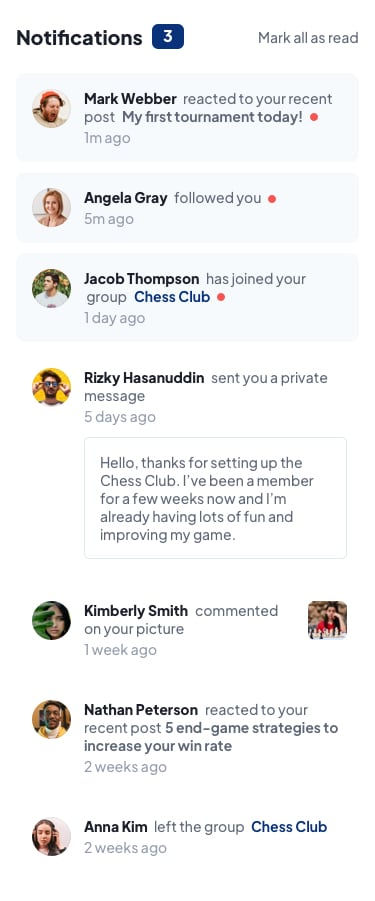
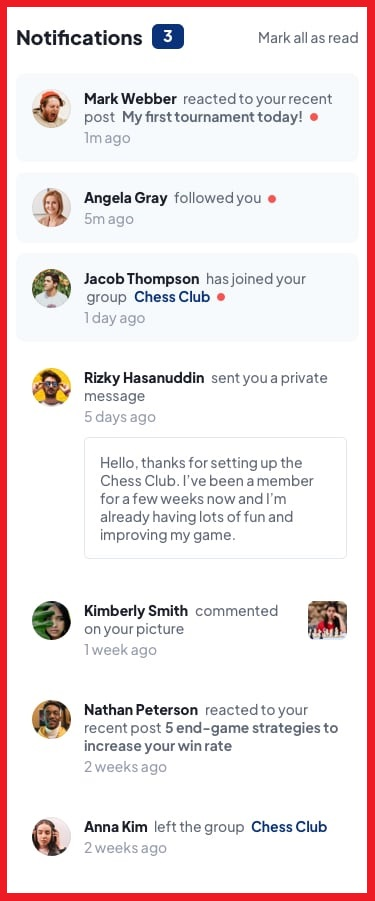
Ch25: finalizing mobile layout

Changed region(s): [[0.0, 0.0, 1.0, 1.0]]

diff --git a/25-notifications-page-main/index.html b/25-notifications-page-main/index.html
@@ -29,14 +29,15 @@
         <div class="details">
           <div class="content">
             <span class="name">Mark Webber</span>
-            <span class="action">reacted to your recent post My first tournament today!</span>
-            <span class="subject">Great job, I'm sure you had a lot of fun.</span>
+            <span class="action">reacted to your recent post </span>
+            <span class="subject">My first tournament today!</span>
+            <span class="red-dot">•</span>
           </div>
           <div class="timestamp">1m ago</div>
         </div>
       </div>
 
-      <div class="notification d-flex-center">
+      <div class="notification d-flex">
         <img src="./assets/images/avatar-angela-gray.webp" alt="Avatar of Angela Gray">
         <div class="details">
           <div class="content">
@@ -47,7 +48,7 @@
         </div>
       </div>
 
-      <div class="notification d-flex-center">
+      <div class="notification d-flex">
         <img src="./assets/images/avatar-jacob-thompson.webp" alt="Avatar of Jacob Thompson">
         <div class="details">
           <div class="content">
@@ -61,7 +62,7 @@
         </div>
       </div>
 
-      <div class="notification d-flex-center">
+      <div class="notification d-flex">
         <img src="./assets/images/avatar-rizky-hasanuddin.webp" alt="Avatar of Rizky Hasanuddin">
         <div class="details">
           <div class="content">
@@ -76,7 +77,7 @@
         </div>
       </div>
 
-      <div class="notification d-flex-center">
+      <div class="notification d-flex">
         <img src="./assets/images/avatar-kimberly-smith.webp" alt="Avatar of Kimberly Smith">
         <div class="details">
           <div class="content">
@@ -89,7 +90,7 @@
         </div>
       </div>
 
-      <div class="notification d-flex-center">
+      <div class="notification d-flex">
         <img src="./assets/images/avatar-nathan-peterson.webp" alt="Avatar of Nathan Peterson">
         <div class="details">
           <div class="content">
@@ -101,7 +102,7 @@
         </div>
       </div>
 
-      <div class="notification d-flex-center">
+      <div class="notification d-flex">
         <img src="./assets/images/avatar-anna-kim.webp" alt="Avatar of Anna Kim">
         <div class="details">
           <div class="content">

diff --git a/25-notifications-page-main/sass/style.scss b/25-notifications-page-main/sass/style.scss
@@ -10,16 +10,19 @@ body {
 .notifications {
     margin: auto;
     max-width: 730px;
-
+    padding: 1.5rem 1rem;
     background: white;
     box-shadow: 0px 20px 60px rgba(73, 97, 168, 0.05);
     border-radius: 15px;
 
 
     .header {
+        margin-bottom: 1.3rem;
+
         .title {
+            font-size: 14px;
             align-items: flex-end;
-            gap: 0.7rem;
+            gap: 0.45rem;
 
             span {
                 background: #0A327B;
@@ -34,7 +37,7 @@ body {
             background: none;
             border: none;
             font-weight: 500;
-            font-size: 16px;
+            font-size: 14px;
             line-height: 20px;
             text-align: right;
             color: $dark-grayish-blue;
@@ -49,6 +52,7 @@ body {
     }
 
     .notification {
+
         font-weight: 500;
         font-size: 14px;
         line-height: 18px;
@@ -59,9 +63,13 @@ body {
         margin-inline: 0.5rem;
 
         img {
-            width: 3rem;
-            height: 3rem;
+            width: 2.2rem;
+            height: 2.2rem;
             border-radius: 50%;
+        }
+
+        .details {
+            margin-left: 1rem;
         }
 
         .name {
@@ -82,10 +90,30 @@ body {
             background-color: $light-grayish-blue-1;
             border: 1px solid $light-grayish-blue-2;
             border-radius: 5px;
+            padding: 0.5rem;
         }
 
         .timestamp {
             color: $grayish-blue;
+        }
+
+        .red-dot {
+            color: $red;
+            font-size: 1.35rem;
+            margin-left: 0.3rem;
+        }
+    }
+}
+
+@media screen and (min-width: 768px) {
+    .notifications {
+        font-size: 14px;
+
+        .notification {
+            img {
+                width: 3rem;
+                height: 3rem;
+            }
         }
     }
 }

diff --git a/25-notifications-page-main/css/style.css b/25-notifications-page-main/css/style.css
@@ -73,13 +73,18 @@ body {
 .notifications {
   margin: auto;
   max-width: 730px;
+  padding: 1.5rem 1rem;
   background: white;
   box-shadow: 0px 20px 60px rgba(73, 97, 168, 0.05);
   border-radius: 15px;
 }
+.notifications .header {
+  margin-bottom: 1.3rem;
+}
 .notifications .header .title {
+  font-size: 14px;
   align-items: flex-end;
-  gap: 0.7rem;
+  gap: 0.45rem;
 }
 .notifications .header .title span {
   background: #0A327B;
@@ -92,7 +97,7 @@ body {
   background: none;
   border: none;
   font-weight: 500;
-  font-size: 16px;
+  font-size: 14px;
   line-height: 20px;
   text-align: right;
   color: hsl(219, 12%, 42%);
@@ -113,9 +118,12 @@ body {
   margin-inline: 0.5rem;
 }
 .notifications .notification img {
-  width: 3rem;
-  height: 3rem;
+  width: 2.2rem;
+  height: 2.2rem;
   border-radius: 50%;
+}
+.notifications .notification .details {
+  margin-left: 1rem;
 }
 .notifications .notification .name {
   color: hsl(224, 21%, 14%);
@@ -132,7 +140,23 @@ body {
   background-color: hsl(211, 68%, 94%);
   border: 1px solid hsl(205, 33%, 90%);
   border-radius: 5px;
+  padding: 0.5rem;
 }
 .notifications .notification .timestamp {
   color: hsl(219, 14%, 63%);
+}
+.notifications .notification .red-dot {
+  color: hsl(1, 90%, 64%);
+  font-size: 1.35rem;
+  margin-left: 0.3rem;
+}
+
+@media screen and (min-width: 768px) {
+  .notifications {
+    font-size: 14px;
+  }
+  .notifications .notification img {
+    width: 3rem;
+    height: 3rem;
+  }
 }/*# sourceMappingURL=style.css.map */

diff --git a/25-notifications-page-main/sass/_variables.scss b/25-notifications-page-main/sass/_variables.scss
@@ -10,4 +10,4 @@ $dark-grayish-blue: hsl(219, 12%, 42%);
 $very-dark-blue: hsl(224, 21%, 14%);
 
 @import url('https://fonts.googleapis.com/css2?family=Plus+Jakarta+Sans:wght@500;800&display=swap');
-$font-family: "Plus Jakarta Sans", sans-serif;
+$font-family: 'Plus Jakarta Sans', sans-serif;
